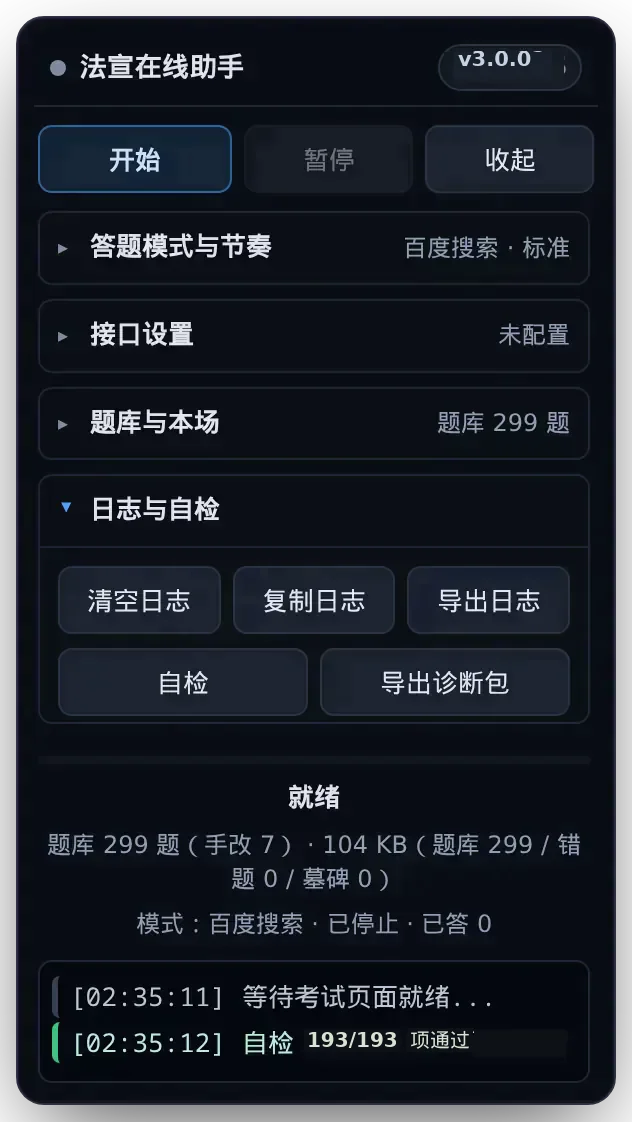
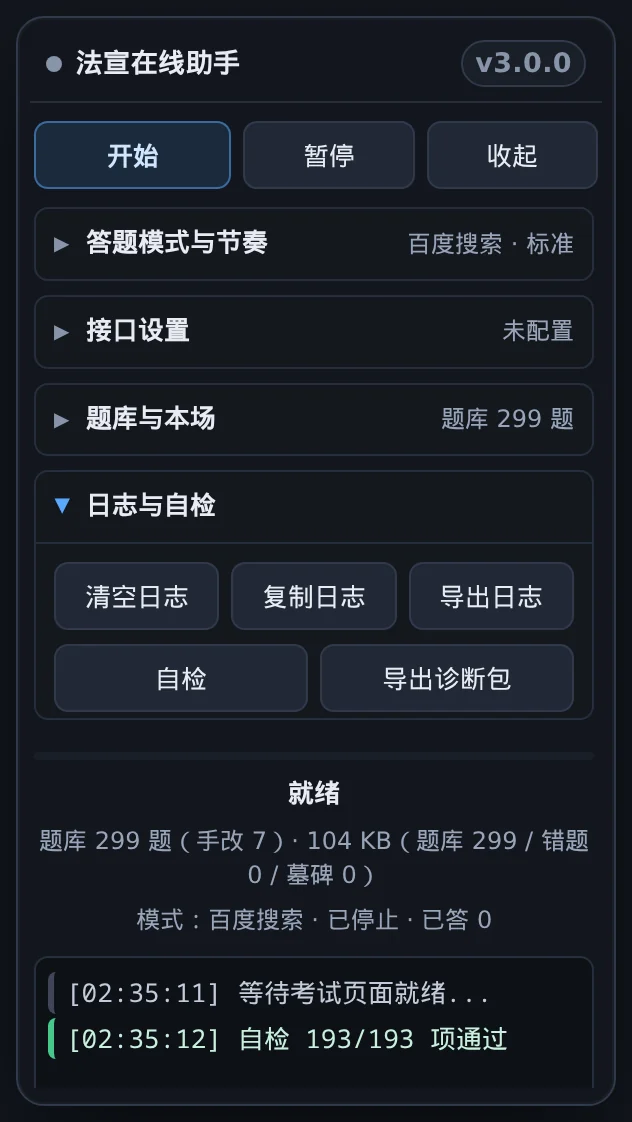
docs: 用 Chrome 重绘面板与社交预览，修复版本徽章覆盖

Changed region(s): [[0.0, 0.0, 1.0, 1.0], [0.0902, 0.2807, 0.9019, 0.4679], [0.0601, 0.2184, 0.1203, 0.2496]]

diff --git a/docs/DEVELOPMENT.md b/docs/DEVELOPMENT.md
@@ -9,7 +9,7 @@
 | Node.js | ≥ 22（`.nvmrc` 为 `22`；CI 矩阵跑 22 与 24） | 运行全部测试与工具 |
 | Chromium 系浏览器 | Edge / Chrome / Chromium 任一 | `panel-smoke`、`page-smoke` 两个浏览器冒烟 |
 | git | 任意近版 | 提交、打 tag、发版 |
-| ffmpeg + 字体 | 仅重绘文档图时需要 | `npm run docs:images` |
+| ffmpeg + Chrome + 中文字体 | 仅重绘文档图时需要 | `npm run docs:images` |
 
 补充说明：
 
@@ -82,7 +82,7 @@
 | `npm run ci` | `node tools/ci.mjs`：与 CI 完全相同的 8 步统一门禁 | 是 |
 | `npm run smoke` | 只跑两个浏览器冒烟（自动带 `--require-browser`） | 是 |
 | `npm run release` | 本地发版助手：前置检查 → 统一门禁 → 打本地 tag（不 push） | 默认要（内部跑 `npm run ci`） |
-| `npm run docs:images` | 重绘 `docs/` 下三张 README 用图 | 否（要 ffmpeg / 字体） |
+| `npm run docs:images` | 重绘 `docs/` 下三张 README 用图 | 否（要 ffmpeg / Chrome / 中文字体） |
 | `npm run merge-smoke` | 只跑题库合并冒烟 | 否 |
 
 单独运行某一项（排查失败时最常用）：
@@ -218,7 +218,7 @@ AI 响应由 `tests/_harness.mjs` 的 `fakeAI` 打桩，完全离线：在 `CASE
 | 冒烟退出码 2 | 没找到浏览器，或指定了 `--require-browser` | 安装 Chromium 系浏览器或设置 `FX_BROWSER` |
 | 冒烟退出码 1 | 断言失败（脚本或页面行为回归） | 用 dump 开关保留现场，单跑该用例 |
 | `EXDEV: cross-device link not permitted` | 图片脚本的临时目录与 `docs/` 不在同一文件系统 | 把仓库放在本地磁盘；脚本默认在 `docs/.tmp-images-*` 建临时目录，不要把它指到另一挂载点 |
-| `缺少字体` / `找不到 ffmpeg` | 配图依赖缺失 | 安装 `ffmpeg` 与 DejaVu Sans Bold、Droid Sans Fallback；或用 `FFMPEG` / `FX_FONT` / `FX_CJK_FONT` 指定路径 |
+| `找不到 Chrome` / `找不到 ffmpeg` / 中文变方框 | 配图依赖缺失 | 安装 Chrome/Chromium、`ffmpeg` 与中文字体；或用 `CHROME` / `FFMPEG` 指定路径 |
 | `check-docs` 报死链 | 相对链接或锚点失效 | 按 `文件:行号 → 链接` 修正；标题改了要同步锚点 |
 | 页面冒烟超时 | 浏览器启动慢或页面脚本卡住 | 先单独跑，确认浏览器可启动；CI 上使用 `--no-sandbox` 由脚本自动加 |
 
@@ -249,6 +249,6 @@ AI 响应由 `tests/_harness.mjs` 的 `fakeAI` 打桩，完全离线：在 `CASE
 
 - 文档入口与适用读者见 [docs/README.md](README.md)；安全报告见 [SECURITY.md](../SECURITY.md)，求助渠道见 [SUPPORT.md](../SUPPORT.md)。
 - 三张 README 用图（`docs/social-preview-light.webp`、`docs/social-preview-dark.webp`、`docs/panel.webp`）由 `npm run docs:images` 重绘，原理与依赖见 [docs/IMAGE_PIPELINE.md](IMAGE_PIPELINE.md)。
-- 脚本默认读取 `package.json` 的 `version` 与 README 的 `self--test-*` 徽章；也可显式传 `--version` / `--count`。调整海报或面板布局时，先改 `tools/generate-docs-images.mjs` 里的坐标与底色。
-- 配图依赖 `ffmpeg`、DejaVu Sans Bold、Droid Sans Fallback，可用 `FFMPEG` / `FX_FONT` / `FX_CJK_FONT` 覆盖路径；该脚本只在本机手动运行，不进入 CI。
+- 脚本默认读取 `package.json` 的 `version` 与 README 的 `self--test-*` 徽章；也可显式传 `--version` / `--count`。调整海报或面板布局时，改 `tools/generate-docs-images.mjs` 的 `socialHtml()` / `panelHtml()`，让文字由浏览器重新排版，不要覆盖旧图。
+- 配图依赖 `ffmpeg`、Chrome/Chromium 与系统中文字体，可用 `FFMPEG` / `CHROME` 覆盖路径；该脚本只在本机手动运行，不进入 CI。
 - 新增或修改文档后跑一次 `node tools/check-docs.mjs`，确认相对链接与锚点都能解析。

diff --git a/docs/IMAGE_PIPELINE.md b/docs/IMAGE_PIPELINE.md
@@ -6,7 +6,7 @@ README 使用的三张图：
 - `docs/social-preview-dark.webp`
 - `docs/panel.webp`
 
-都是仓库内的脱敏海报/截图，不包含真实账号信息。发版时版本号和自检数会变化，用脚本重新生成，避免手工维护漂移。`panel.webp` 由 ffmpeg 更新版本徽章/日志数字；两张社交预览由 Chrome 渲染独立 HTML（右侧嵌入 `panel.webp`），不再在旧图上反复盖字：
+都是仓库内的脱敏海报/截图，不包含真实账号信息。发版时版本号和自检数会变化，用脚本重新生成，避免手工维护漂移。三张图都由 Chrome 从 HTML 重新渲染：`panel.webp` 使用脚本自身的 `PANEL_CSS` 与固定演示状态，两张社交预览使用独立 HTML（右侧嵌入这张干净面板）；ffmpeg 只负责把截图转成 WebP，不再在旧图上覆盖文字：
 
 ```bash
 # 默认读取 package.json 的 version、README 里的 self--test-N 徽章
@@ -16,11 +16,11 @@ npm run docs:images
 node tools/generate-docs-images.mjs --version 3.0.0 --count 193
 ```
 
-依赖：`ffmpeg`、Chrome/Chromium（可用 `CHROME` 指定）、DejaVu Sans Bold、Droid Sans Fallback（可用 `FX_FONT` / `FX_CJK_FONT` / `FFMPEG` 覆盖路径）。社交预览按 1280×640、`--force-device-scale-factor=1` 截图；若本机没有 Chrome，脚本会直接报错，不会写出半成品。脚本只在本地手动运行，不进入 CI。
+依赖：`ffmpeg`（PNG→WebP，可用 `FFMPEG` 指定）、Chrome/Chromium（可用 `CHROME` 指定）与系统中文字体。面板按 316×561、2 倍缩放截图（输出 632×1122）；社交预览按 1280×640、1 倍截图。若本机没有 Chrome 或 `ffmpeg`，脚本会直接报错；中文字体缺失时截图会出现方框，请先安装中文字体。脚本只在本地手动运行，不进入 CI。
 
 ## 发版检查清单
 
 1. 改版本号后执行 `npm run docs:images`，用图片查看器确认三张图的版本号/自检数正确；
 2. `npm run ci`（含页面冒烟 135 项）全绿；
 3. `node tools/release.mjs --check-ci vX.Y.Z` 通过后再打 tag；
-4. 若调整海报布局，改 `tools/generate-docs-images.mjs` 里的 `socialHtml()`；若调整面板截图，改 `panelFilters()` 的坐标与底色，再生成。
+4. 若调整海报布局，改 `tools/generate-docs-images.mjs` 里的 `socialHtml()`；若调整面板演示状态或布局，改 `panelHtml()`（以及脚本里的 `PANEL_CSS`），再生成。不要改坐标去覆盖旧图上的文字。

diff --git a/CHANGELOG.md b/CHANGELOG.md
@@ -19,8 +19,8 @@
 
 ### 变更
 
-- **README 社交预览重新生成**：两张 1280×640 海报改为 HTML/CSS 排版、Chrome 截图，右侧直接嵌入当前面板截图；不再在旧 WebP 上重复覆盖版本号。修复旧图在 `2.0.22 → 3.0.0` 变短时留下的残影，以及 `193` 与原海报字体不一致的问题。
-- **图片管线说明**：`npm run docs:images` 现在需要 Chrome/Chromium（可用 `CHROME` 指定）；`docs/IMAGE_PIPELINE.md` 已同步依赖与布局入口。
+- **README 社交预览重新生成**：两张 1280×640 海报改为 HTML/CSS 排版、Chrome 截图，右侧嵌入由脚本 `PANEL_CSS` 与固定演示状态重新渲染的面板；面板图和海报都不再在旧 WebP 上重复覆盖版本号。修复旧图在 `2.0.22 → 3.0.0` 变短时留下的色块/残影，以及 `193` 与原海报字体不一致的问题。
+- **图片管线说明**：`npm run docs:images` 现在需要 Chrome/Chromium（可用 `CHROME` 指定）；`docs/IMAGE_PIPELINE.md` 已同步依赖与布局入口；面板图也从 ffmpeg 覆盖改为 Chrome 干净渲染。
 - **文档校准**：补充 `@2` 别名的元数据/文件双层缓存诊断，以及社交预览当前已在 GitHub 配置的说明。
 
 ## v3.0.0
@@ -75,8 +75,8 @@
   断言落到 `questionBank`；等待改为轮询（最长 5 秒），不再依赖固定 1600ms；面板断言 40→42。
 - **CSV 表头回归**：内置自检新增 3 条（正常六列表头、两列「题目 / 答案」、无表头首行题干含「答案」不被吞），
   内置断言 190→193。
-- **文档配图生成**：新增 `tools/generate-docs-images.mjs` 与 `docs/IMAGE_PIPELINE.md`，发版时用 ffmpeg
-  把版本号 / 自检数盖到三张 README 图，不再手工改图。
+- **文档配图生成**：新增 `tools/generate-docs-images.mjs` 与 `docs/IMAGE_PIPELINE.md`，发版时用 Chrome
+  按脚本 CSS / HTML 重新渲染三张 README 图，ffmpeg 只转 WebP，不再手工改图或覆盖旧图。
 
 ### 验证方式
 

diff --git a/docs/README.md b/docs/README.md
@@ -11,7 +11,7 @@
 | [docs/DEVELOPMENT.md](DEVELOPMENT.md) | 贡献者 / 维护者 | 开发环境、目录结构、第一次跑、命令表、统一门禁、测试分层、加断言与 fixture、调试、代码约定、真机回归、文档配图 |
 | [docs/RELEASING.md](RELEASING.md) | 发版维护者 | 版本号来源与副本、发布前检查、本地发版流程、`release.yml`、更新链、失败恢复、发布后验证、回滚、仓库保护依赖 |
 | [docs/REPOSITORY_SETTINGS.md](REPOSITORY_SETTINGS.md) | 仓库管理员 | GitHub 描述/topics/社交预览、Discussions/Wiki、Actions 权限、rulesets、required checks、Security、Releases（全部为建议，需人工确认） |
-| [docs/IMAGE_PIPELINE.md](IMAGE_PIPELINE.md) | 维护者 | `docs/panel.webp` 与社交预览图的生成方式、字体与 `ffmpeg` 依赖、版本号/自检数的同步 |
+| [docs/IMAGE_PIPELINE.md](IMAGE_PIPELINE.md) | 维护者 | `docs/panel.webp` 与社交预览图的生成方式、Chrome/`ffmpeg` 依赖、版本号/自检数的同步 |
 | [CONTRIBUTING.md](../CONTRIBUTING.md) | 贡献者 | 贡献流程、如何提 issue/PR、代码约定、测试要求、报告问题、发版入口 |
 | [SUPPORT.md](../SUPPORT.md) | 使用者 | 求助渠道、提问前自查、提问需要附带的材料、响应预期 |
 | [SECURITY.md](../SECURITY.md) | 报告安全问题的人 | 支持范围、私密报告入口、响应时限、披露约定 |
